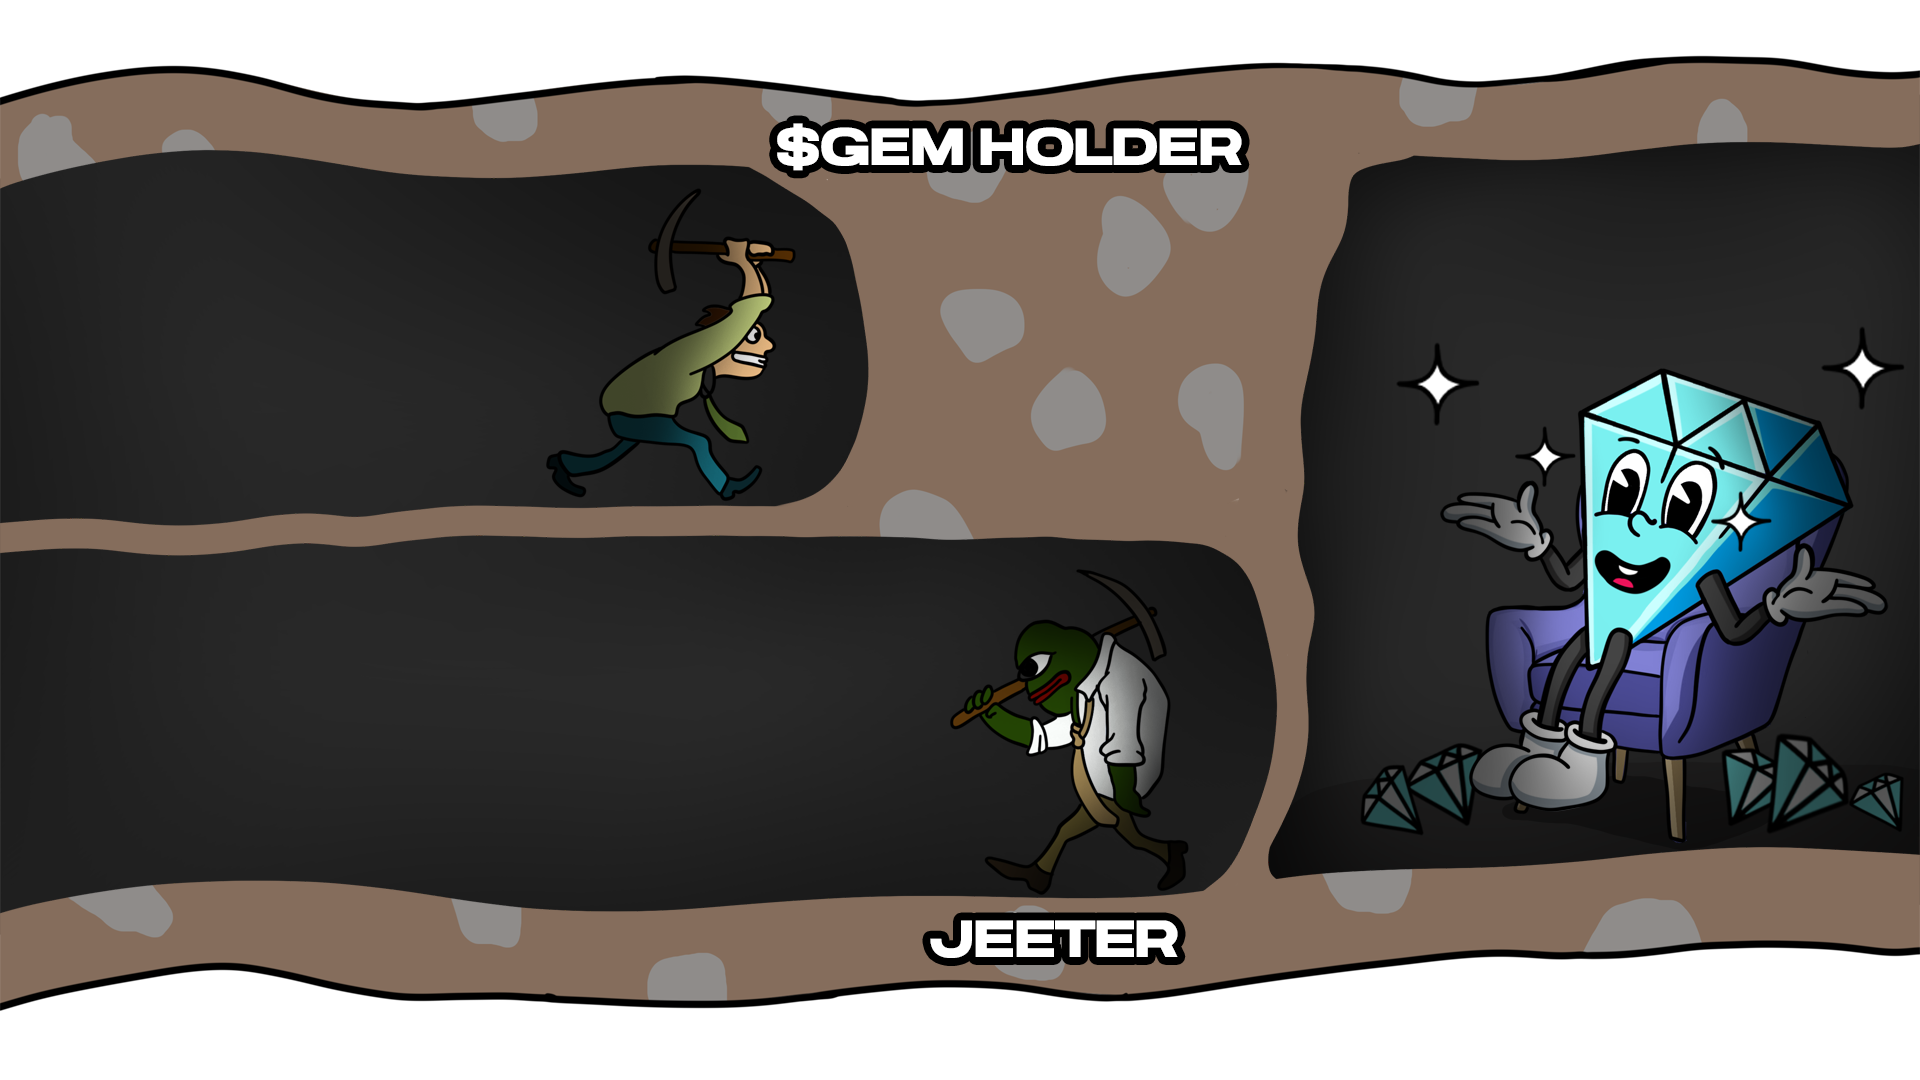
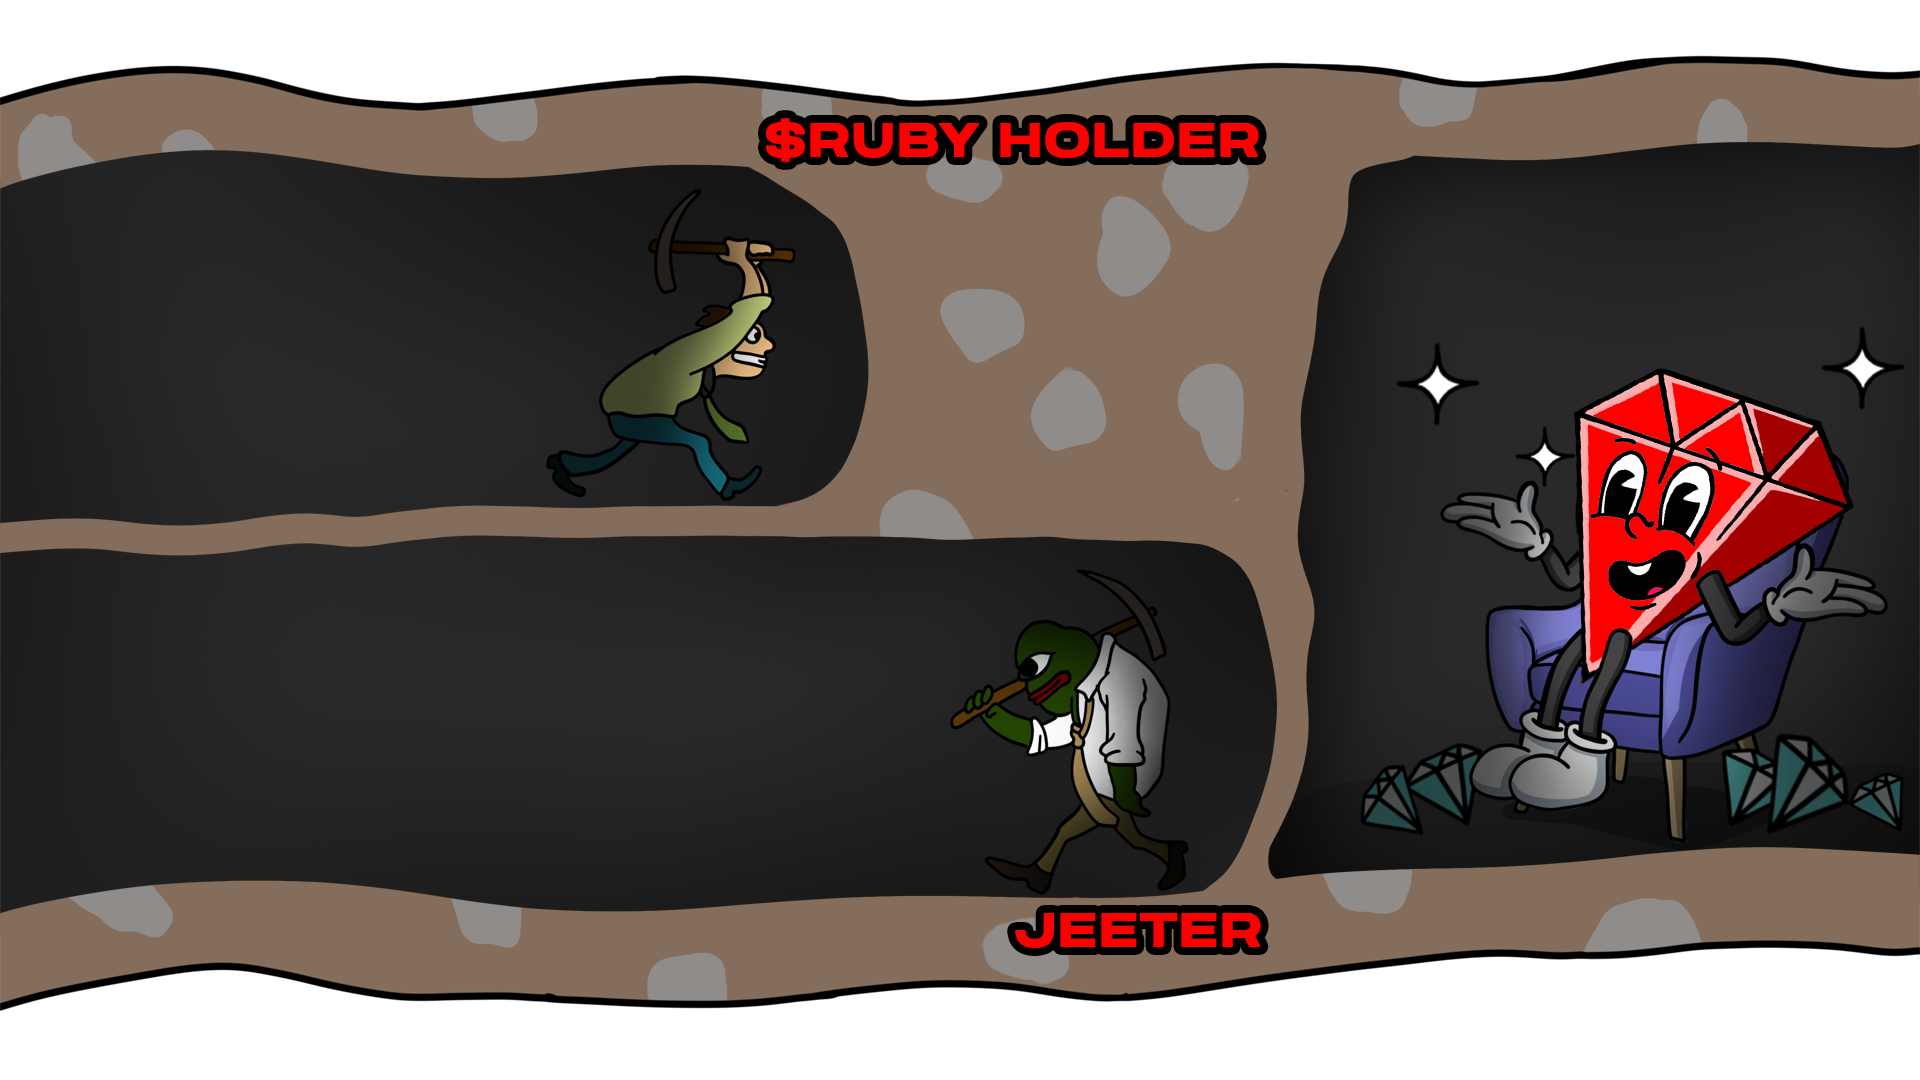
Vfd

Changed region(s): [[0.8125, 0.3361, 0.9688, 0.6417], [0.375, 0.0917, 0.6562, 0.1833], [0.4688, 0.825, 0.6875, 0.9167]]

diff --git a/src/sections/Hero3.jsx b/src/sections/Hero3.jsx
@@ -1,130 +1,9 @@
-// import React, { useRef, useEffect, useState } from 'react';
-// import { FaClipboard } from 'react-icons/fa';
-// import { logoMain, diamondImage, cardImage1, img1, img2 } from '../assets/images';
-
-// const Hero3 = () => {
-//   const contractAddress = 'LOADING...';
-//   const [inputWidth, setInputWidth] = useState(0);
-//   const hiddenDivRef = useRef(null);
-
-//   const copyToClipboard = () => {
-//     navigator.clipboard.writeText(contractAddress);
-//     alert('Contract address copied to clipboard!');
-//   };
-
-//   useEffect(() => {
-//     if (hiddenDivRef.current) {
-//       setInputWidth(hiddenDivRef.current.offsetWidth + 10); // Add some padding for better look
-//     }
-//   }, [contractAddress]);
-
-//   return (
-//     <section className="w-full h-[100%] relative flex flex-col items-center justify-between text-black">
-//       {/* Top Buttons */}
-//       <div className="w-full flex justify-end p-4 space-x-4">
-//         <button
-//           onClick={() => document.getElementById('roadmap').scrollIntoView({ behavior: 'smooth' })}
-//           className="bg-blue-500 text-black text-[37px] font-anton border-4 border-black px-20 py-11 rounded-3xl hover:bg-blue-700"
-//         >
-//           ROADMAP
-//         </button>
-//         <a
-//           href="https://pump.fun/5eayDLdACv74f7hWWvZDEGaUAwHhg15XBL2hV8jFpumpboard"
-//           target="_blank"
-//           rel="noopener noreferrer"
-//           className="bg-blue-500 text-white border-4 border-black px-20 py-11 rounded-3xl hover:bg-blue-700 flex items-center"
-//         >
-//           <img src={img2} alt="X Logo" className="w-14 h-14" />
-//         </a>
-//       </div>
-
-//       {/* Main Content */}
-//       <div className="flex flex-1 items-center justify-between w-full max-w-7xl px-8">
-//         {/* Left Image */}
-//         <div className="w-2/3 animate-slide-in-left">
-//           <img src={diamondImage} alt="Diamond" className="w-[80%] h-[80%]" />
-//         </div>
-
-//         {/* Right Side */}
-//         <div className="w-1/3 flex flex-col items-center animate-slide-in-right">
-//           {/* Logo */}
-//           <img src={logoMain} alt="Logo" className="w-full h-auto mb-8" />
-
-//           {/* Contract Address with Copy Button */}
-//           <div className="bg-purple-600 border-black border-4 p-4 rounded-3xl flex items-center space-x-2">
-//             {/* Hidden div to measure the text width */}
-//             <div
-//               ref={hiddenDivRef}
-//               className="absolute invisible whitespace-nowrap text-lg font-anton"
-//             >
-//               {contractAddress}
-//             </div>
-//             <input
-//               type="text"
-//               value={contractAddress}
-//               readOnly
-//               style={{ width: `${inputWidth}px` }}
-//               className="bg-[#8218df] border-4 border-[#922c8d] rounded-3xl px-4 py-2 text-black font-anton text-lg"
-//             />
-//             <button
-//               onClick={copyToClipboard}
-//               className="bg-blue-500 text-white p-3 rounded-3xl hover:bg-blue-700 flex items-center"
-//             >
-//               <FaClipboard />
-//             </button>
-//           </div>
-//         </div>
-//       </div>
-
-//       {/* Bottom Buttons */}
-//       <div className="relative w-full h-full flex justify-center items-center mt-36">
-//         {/* First Button */}
-//         <a
-//           href="https://x.com/Gem0nSol"
-//           target="_blank"
-//           rel="noopener noreferrer"
-//           className="absolute bg-blue-500 p-8 rounded-xl border-4 border-black hover:bg-blue-700 flex justify-center items-center transition-transform transform hover:scale-110"
-//           style={{
-//             width: '290px',
-//             height: '200px',
-//             bottom: '-100px',
-//             left: '40%',
-//             transform: 'rotate(-10deg)',
-//           }}
-//         >
-//           <img src={img1} alt="Button 1" className="w-32 h-32" />
-//         </a>
-
-//         {/* Second Button */}
-//         <a
-//           href="https://t.me/GEM2MILLIONZ"
-//           target="_blank"
-//           rel="noopener noreferrer"
-//           className="absolute bg-blue-500 p-8 rounded-xl border-4 border-black hover:bg-blue-700 flex justify-center items-center transition-transform transform hover:scale-110"
-//           style={{
-//             width: '290px',
-//             height: '200px',
-//             bottom: '-90px',
-//             right: '23%',
-//             transform: 'rotate(10deg)',
-//           }}
-//         >
-//           <img src={cardImage1} alt="Button 2" className="w-32 h-32" />
-//         </a>
-//       </div>
-//     </section>
-//   );
-// };
-
-// export default Hero3;
-
-
 import React from 'react';
 import { FaClipboard } from 'react-icons/fa'; // Clipboard icon for the copy button
 import { logoMain, diamondImage, cardImage1, img1, img2 } from '../assets/images'; // Replace with your actual image paths
 
 const Hero3 = () => {
-  const contractAddress = '5eayDLdACv74f7hWWvZDEGaUAwHhg15XBL2hV8jFpump'; // Replace with the actual contract address
+  const contractAddress = ''; // Replace with the actual contract address
 
   const copyToClipboard = () => {
     navigator.clipboard.writeText(contractAddress);
@@ -132,7 +11,7 @@ const Hero3 = () => {
   };
 
   return (
-    <section className="w-full h-[100%] relative flex flex-col items-center justify-between  text-black">
+    <section className="w-full h-[100%] relative flex flex-col items-center justify-between  text-black ">
       {/* Top Buttons */}
        <div className="w-full flex justify-end p-4 space-x-4">
          <button
@@ -142,10 +21,10 @@ const Hero3 = () => {
           ROADMAP
         </button>
         <a
-          href="https://pump.fun/5eayDLdACv74f7hWWvZDEGaUAwHhg15XBL2hV8jFpump"
+          href="https://sunpump.meme/"
           target="_blank"
           rel="noopener noreferrer"
-          className="bg-blue-500 text-white border-4 border-black px-20 py-11 rounded-3xl hover:bg-blue-700 flex items-center"
+          className="bg-red-500 text-white border-4 border-black px-20 py-11 rounded-3xl hover:bg-red-700 flex items-center"
         >
           <img src={img2} alt="X Logo" className="w-14 h-14" />
         </a>
@@ -185,7 +64,7 @@ const Hero3 = () => {
       <div className="relative w-full h-full flex justify-center items-center mt-36">
         {/* First Button */}
         <a
-          href="https://x.com/Gem0nSol"
+          href="https://x.com/"
           target="_blank"
           rel="noopener noreferrer"
           className="absolute bg-blue-500 p-8 rounded-xl border-4 border-black hover:bg-blue-700 flex justify-center items-center transition-transform transform hover:scale-110"
@@ -202,7 +81,7 @@ const Hero3 = () => {
 
         {/* Second Button */}
         <a
-          href="https://t.me/GEM2MILLIONZ"
+          href="https://t.me/"
           target="_blank"
           rel="noopener noreferrer"
           className="absolute bg-blue-500 p-8 rounded-xl border-4 border-black hover:bg-blue-700 flex justify-center items-center transition-transform transform hover:scale-110"

diff --git a/src/App.jsx b/src/App.jsx
@@ -49,7 +49,7 @@ const App = () => {
   //   return <LoadingScreen />;
   // }
 return(
-  <main className="relative bg-[#cdd1ff] "  >
+  <main className="relative  bg-gradient-to-b from-[#fbfbfb] via-[#ff4b3b] to-[#db1b06]"  >
     {/* <Nav /> */}
    
 
@@ -59,6 +59,7 @@ return(
     {/* <section className="w-full h-screen bg-cover bg-center " style={{ backgroundImage: `url(${main3})` }}><ComingSoon /></section> */}
    
     <Hero3 />
+    
     <SeparatorReverse />
     
 
@@ -69,7 +70,7 @@ return(
     </section>
     <Separator />
     <section className="w-full h-full bg-cover bg-center   " style={{ backgroundImage: `url(${buttonBg})` }}>
-       <ButtonSection linkUrl="https://pump.fun/5eayDLdACv74f7hWWvZDEGaUAwHhg15XBL2hV8jFpump"  />
+       <ButtonSection linkUrl="https://sunpump.meme/"  />
     </section>
 
     <SeparatorReverse />
@@ -77,7 +78,7 @@ return(
     <section className="w-full h-screen bg-cover bg-center " style={{ backgroundImage: `url(${buttonBg2})` }}>
        <ButtonSection2 />
     </section>
-    <Footer2 linkUrl="https://pump.fun/5eayDLdACv74f7hWWvZDEGaUAwHhg15XBL2hV8jFpump" />
+    <Footer2 linkUrl="https://sunpump.meme/" />
   </main>
 );
 };

diff --git a/index.html b/index.html
@@ -10,7 +10,7 @@
     <link rel="preconnect" href="https://fonts.googleapis.com">
     <link rel="preconnect" href="https://fonts.gstatic.com" crossorigin>
     <link href="https://fonts.googleapis.com/css2?family=Comic+Neue:ital,wght@0,300;0,400;0,700;1,300;1,400;1,700&display=swap" rel="stylesheet">
-    <title>$GEM ON SOL </title>
+    <title>$RUBY TRON'S OFFICIAL MASCOT</title>
   </head>
   <body>
     <div id="root"></div>

diff --git a/src/sections/Footer2.jsx b/src/sections/Footer2.jsx
@@ -3,7 +3,7 @@ import { buttonImage, bed } from '../assets/images'; // Replace with your actual
 
 const Footer2 = ({ linkUrl }) => {
   return (
-    <section className="w-full bg-[#9fa8ff] flex flex-col items-center py-8">
+    <section className="w-full bg-[#aa392c] flex flex-col items-center py-8">
       {/* Top Centered Button Image */}
       <a
         href={linkUrl}
